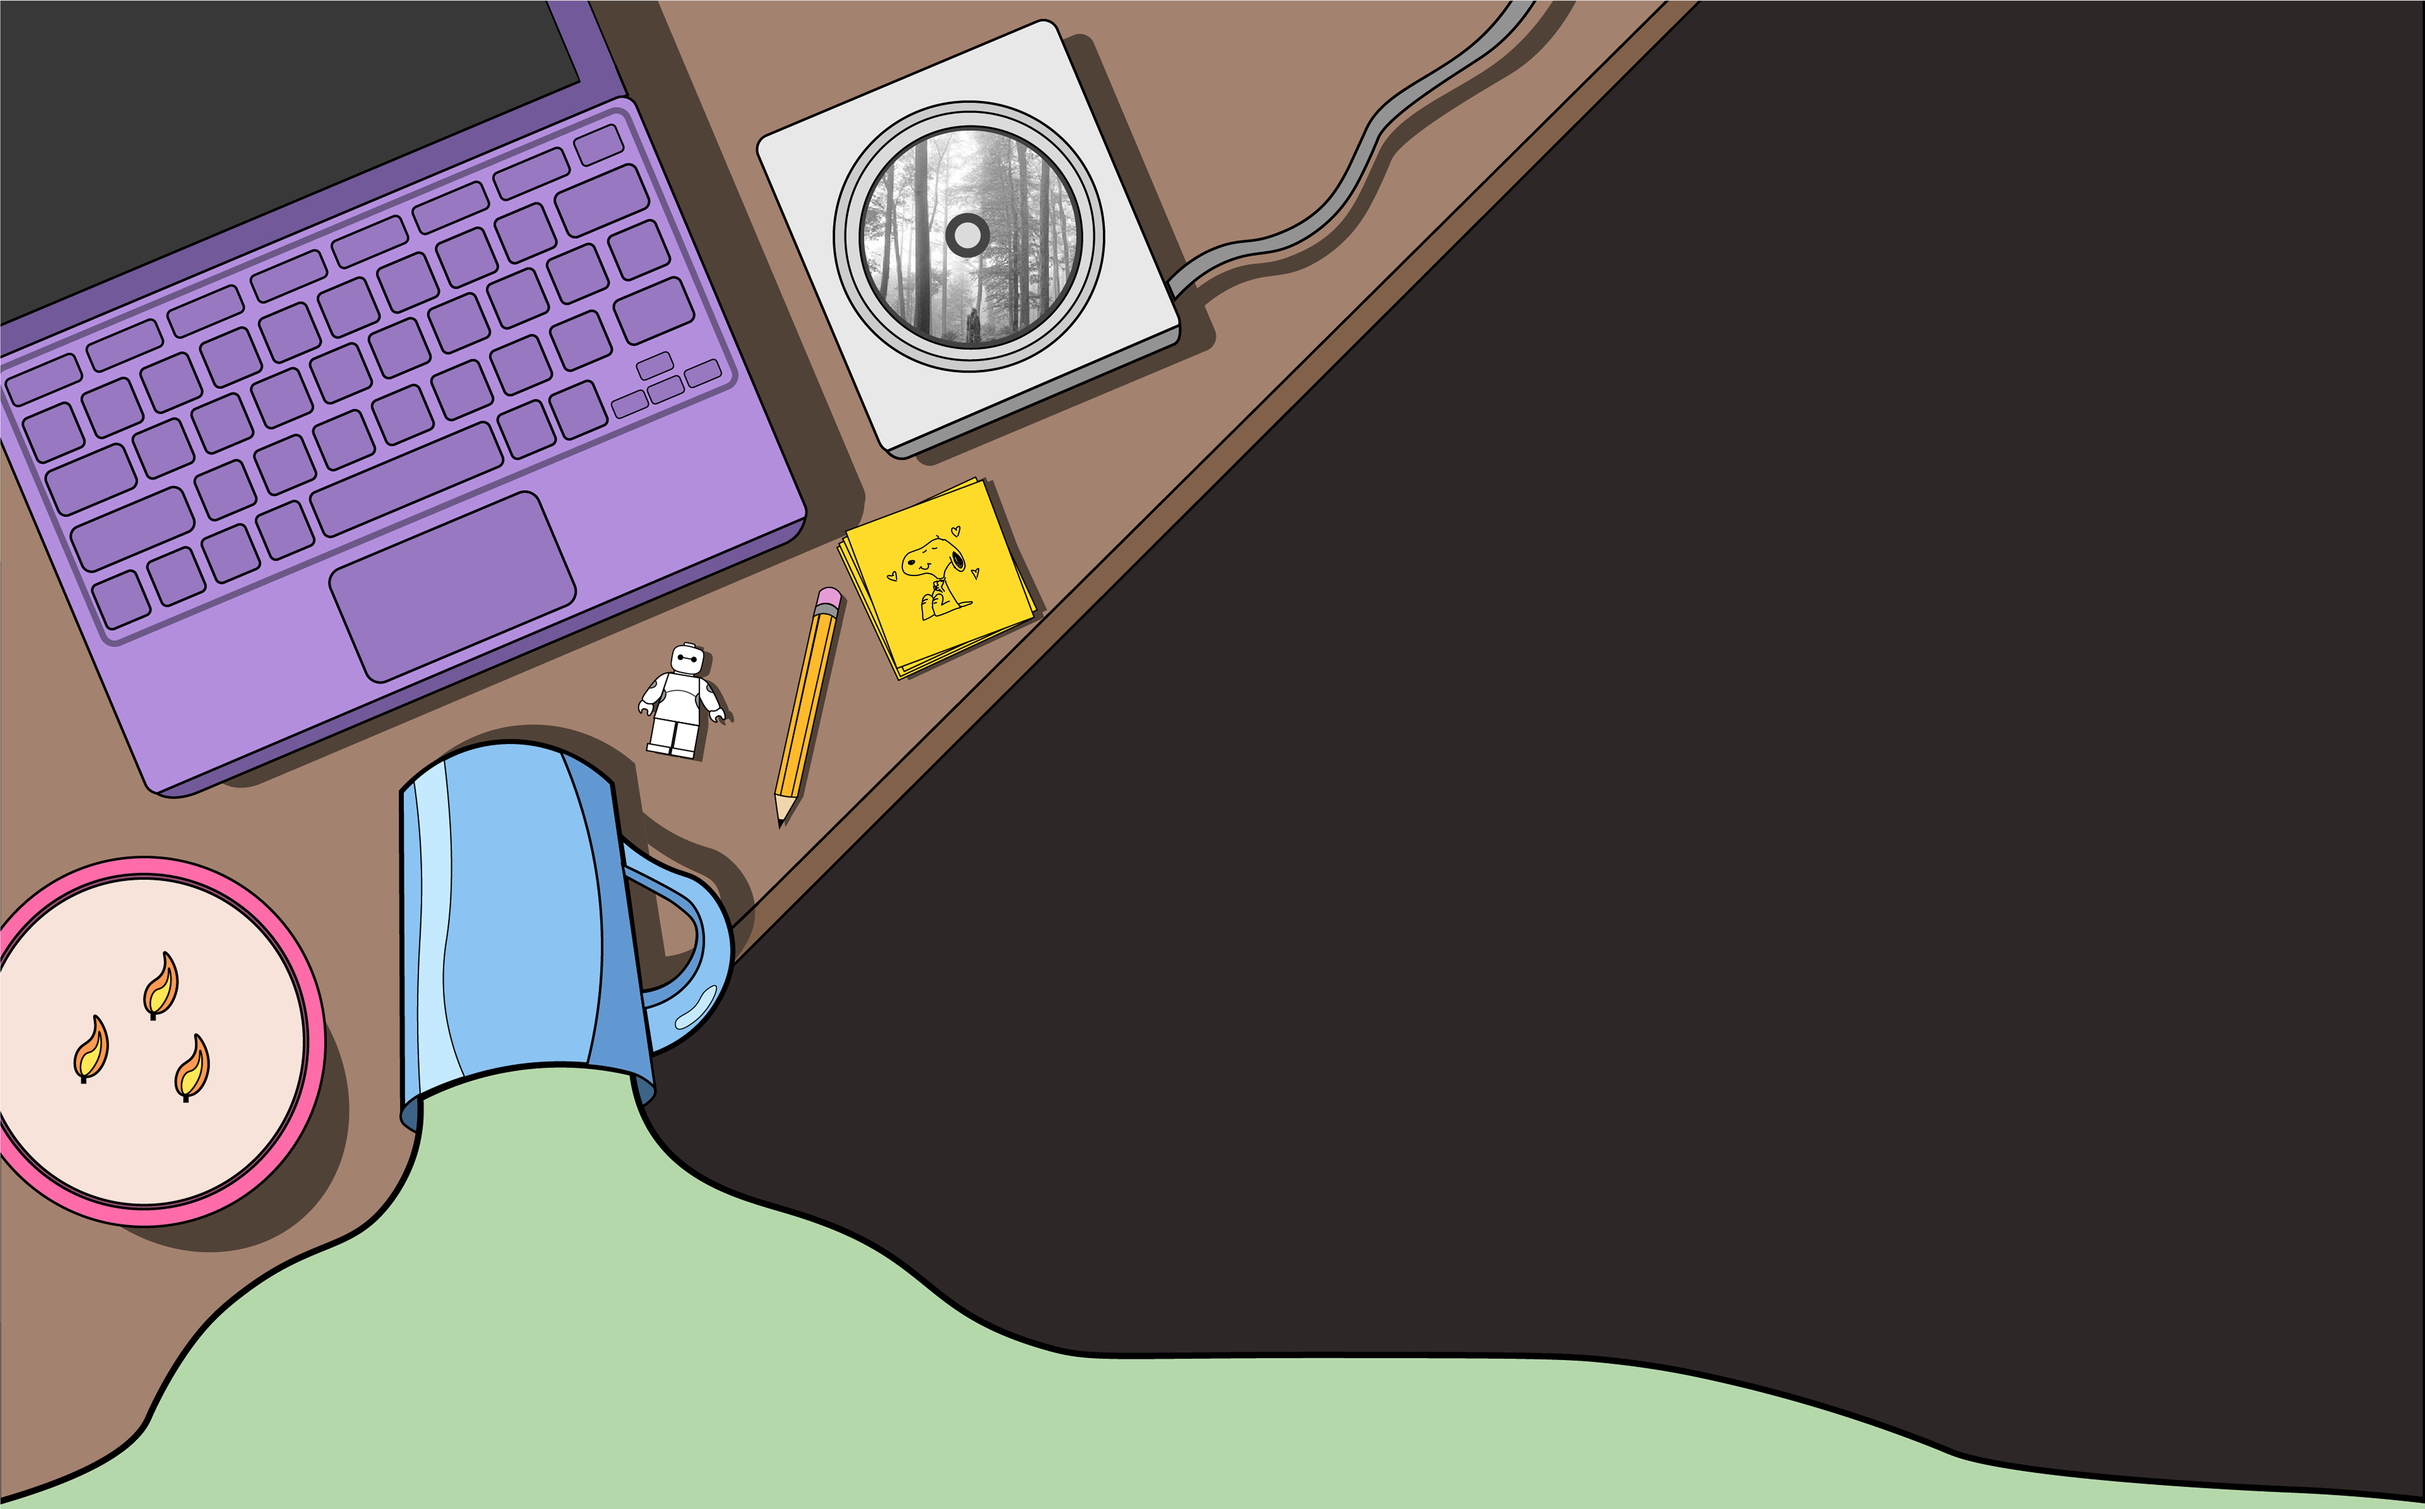
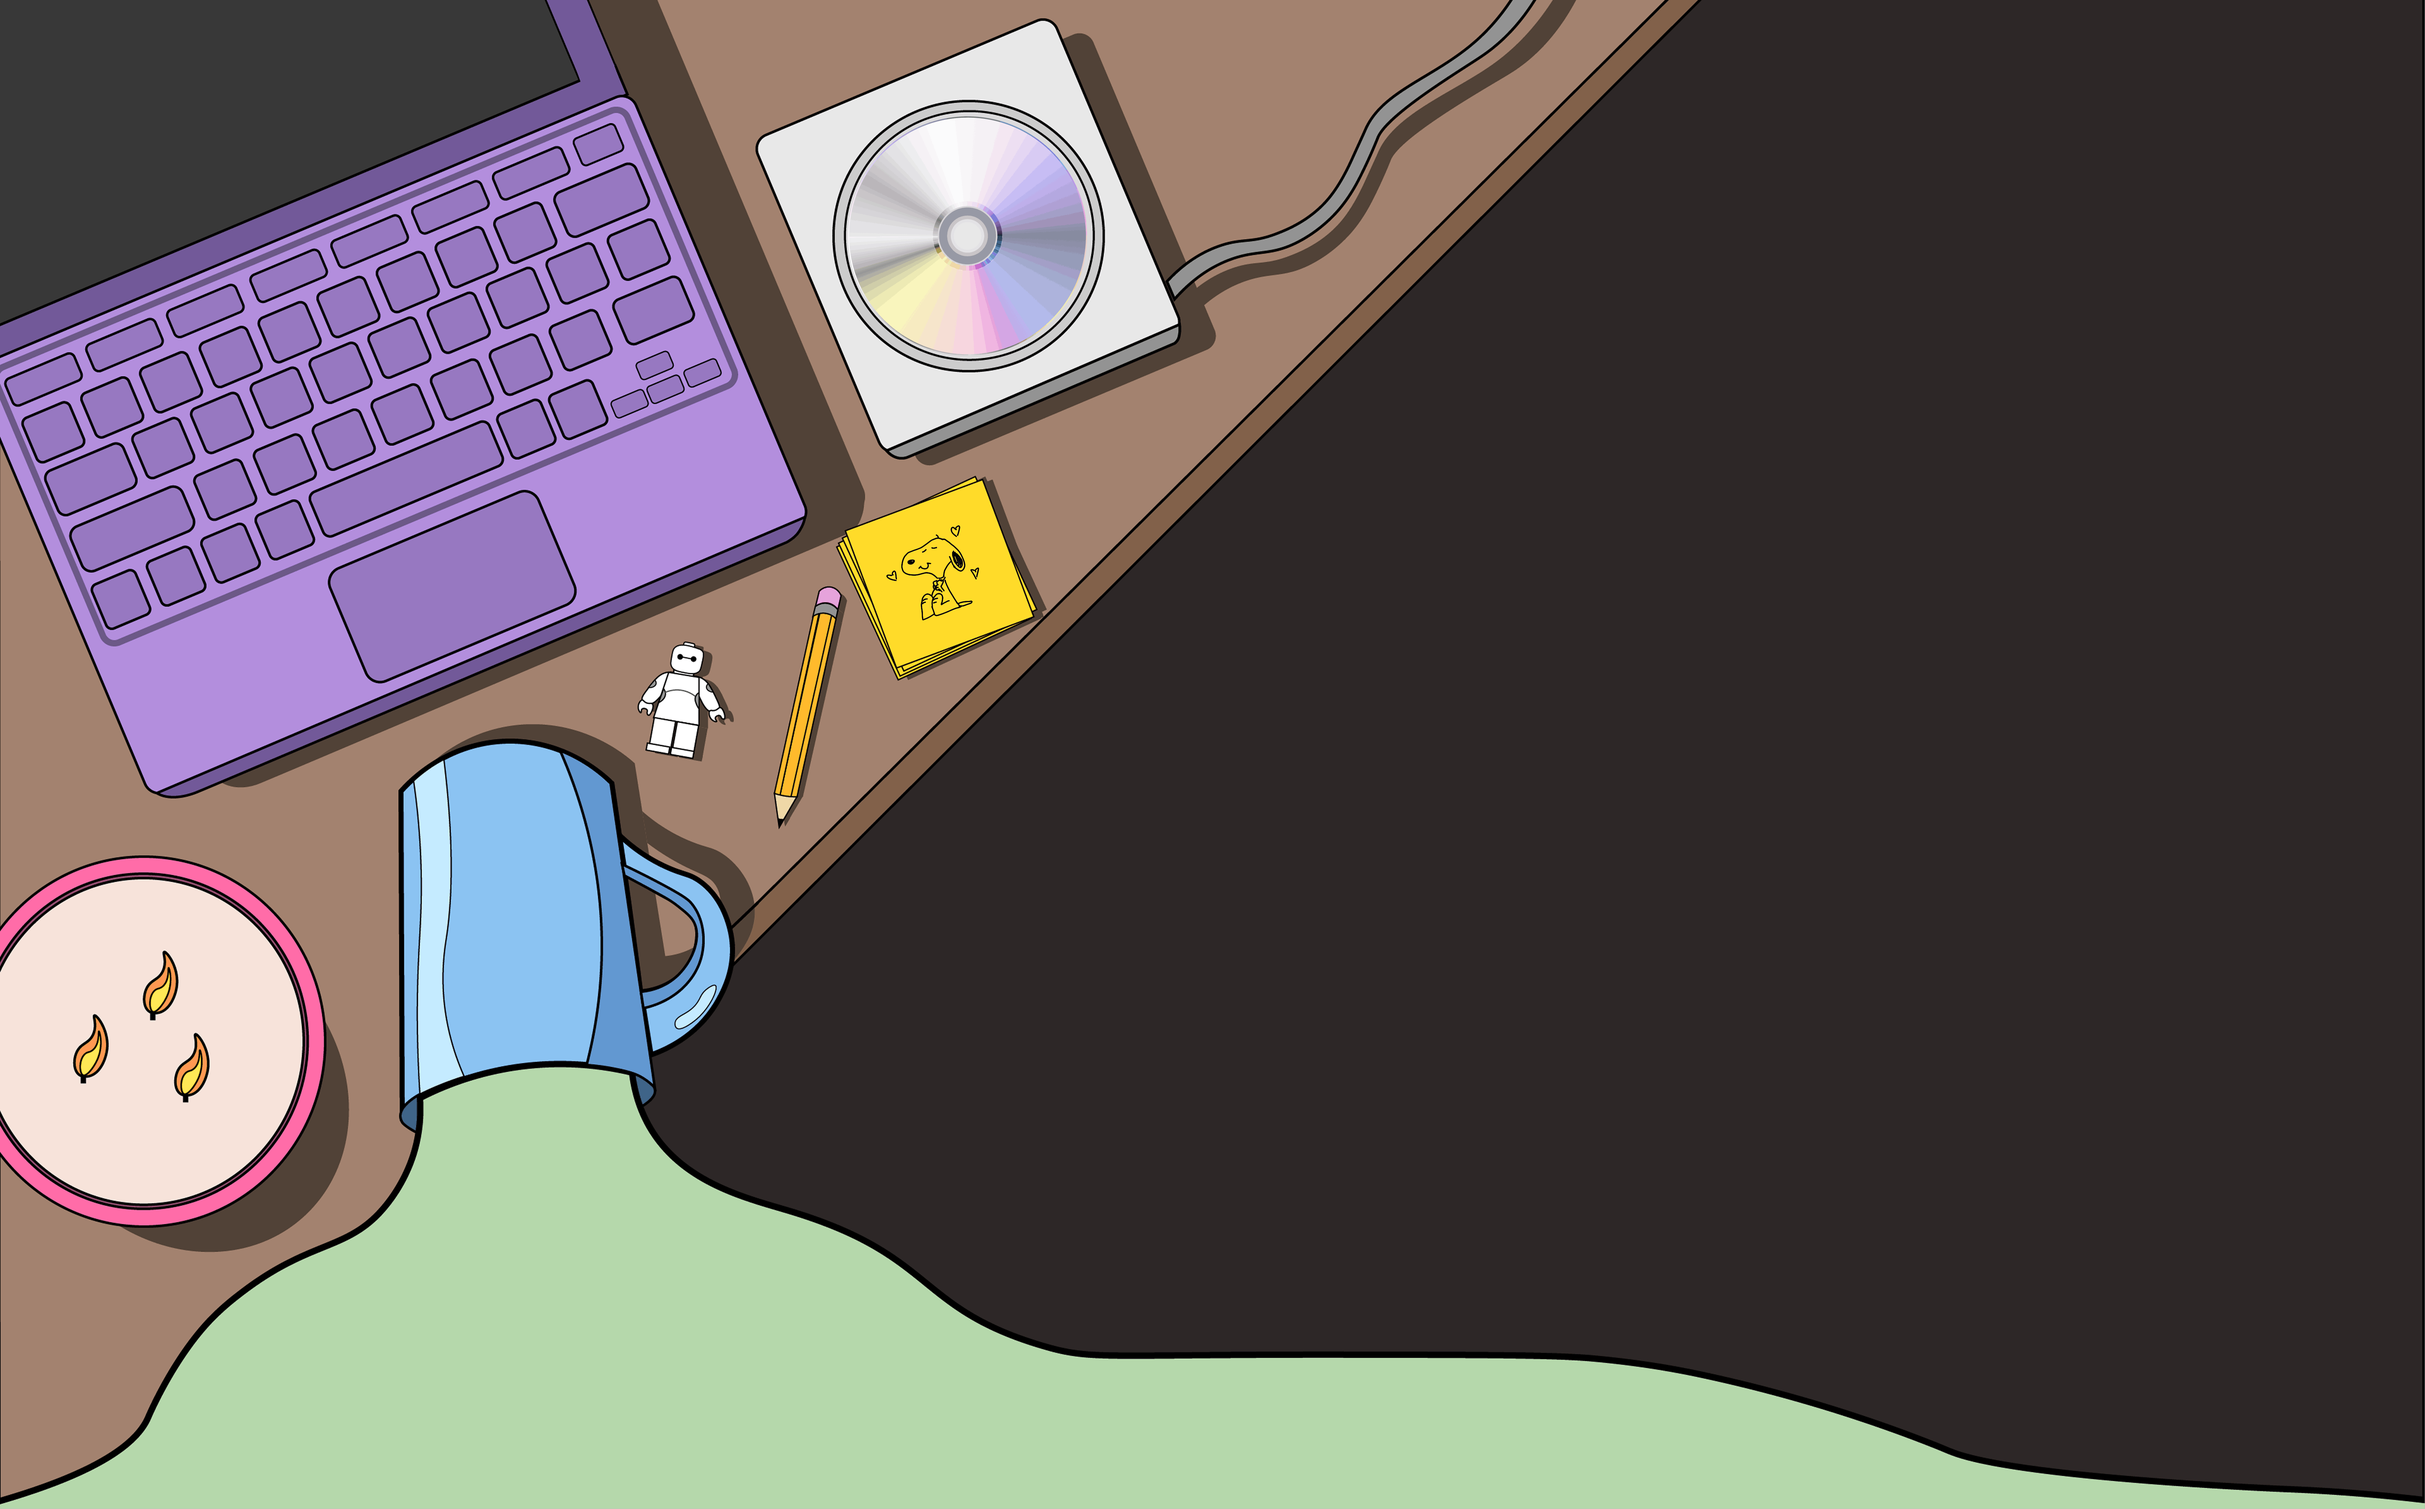
cd update

diff --git a/src/components/home.js b/src/components/home.js
@@ -27,6 +27,7 @@ function Home() {
   const selfietwo = process.env.PUBLIC_URL + "images/IMG_9177.jpeg";
   const heyMilo = process.env.PUBLIC_URL + "images/heymilo-mockup.png";
   const wealthApp = process.env.PUBLIC_URL + "images/wealthApp.png";
+  const newCD = process.env.PUBLIC_URL + "images/newCD.png";
 
   // useEffect(() => {
   //   const initialText = "Product Designer, Engineering Student";
@@ -211,7 +212,7 @@ function Home() {
             rel="noopener noreferrer"
             href="https://open.spotify.com/user/awiui7eruupw35vkztv427960?si=ebec6fdd1f62438b"
           >
-            <img src={folkloreCD} alt="folklore cd" />
+            <img src={newCD} alt="cd" />
           </a>
         </div>
         <h1>Katie Sun</h1>
